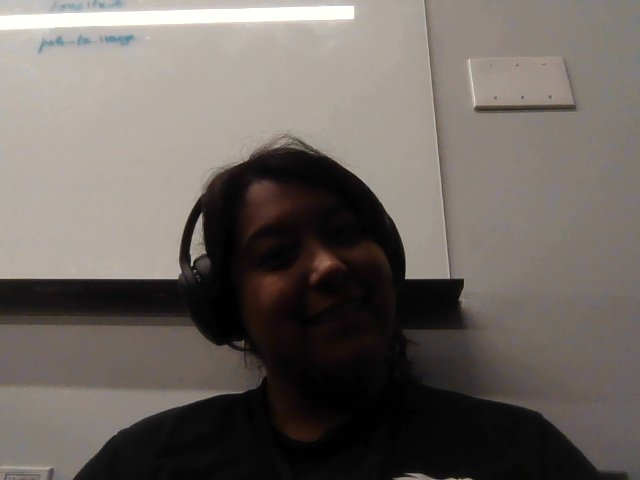
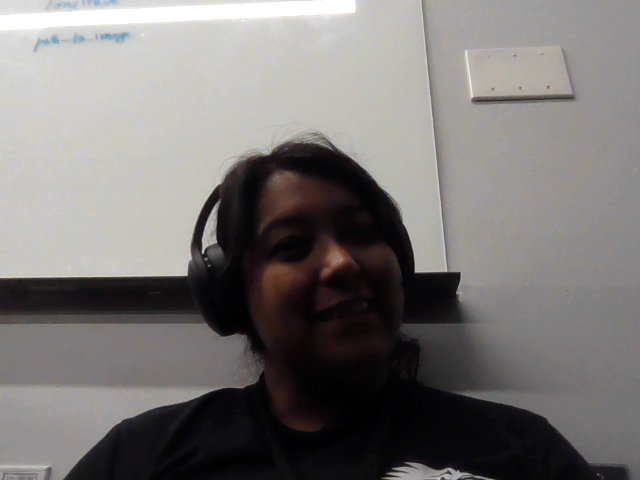
Adding in camera script to the master python script

diff --git a/master_python_script.py b/master_python_script.py
@@ -1,11 +1,15 @@
 import subprocess
 
-# Specify the paths to your Python scripts
-script1_path = 'toyotauser/send_mms.py'
-script2_path = 'police/send_mms.py'
+# Script paths for sending messages to police and the toyota owner
+script1_path = 'camera.py'
+script2_path = 'toyotauser/send_mms.py'
+script3_path = 'police/send_mms.py'
+
+#Run camera and take suspect's photo
+subprocess.run(["python", script1_path])
 
 # Run the first script in toyota user
-subprocess.run(['python', script1_path])
+subprocess.run(['python', script2_path])
 
 # Run the second script in police
-subprocess.run(['python', script2_path])
+subprocess.run(['python', script3_path])
